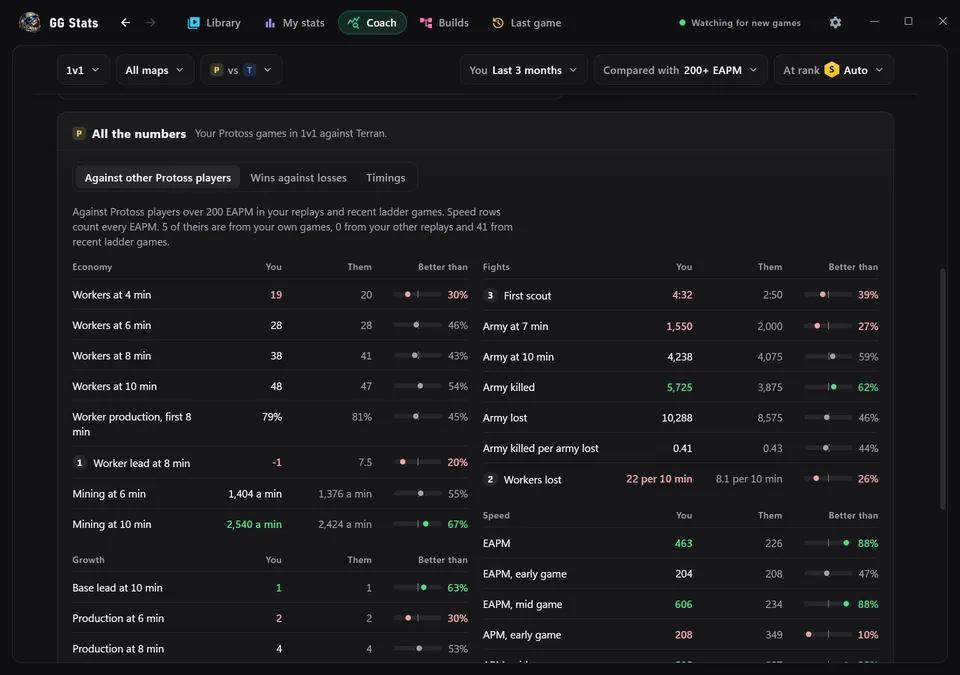
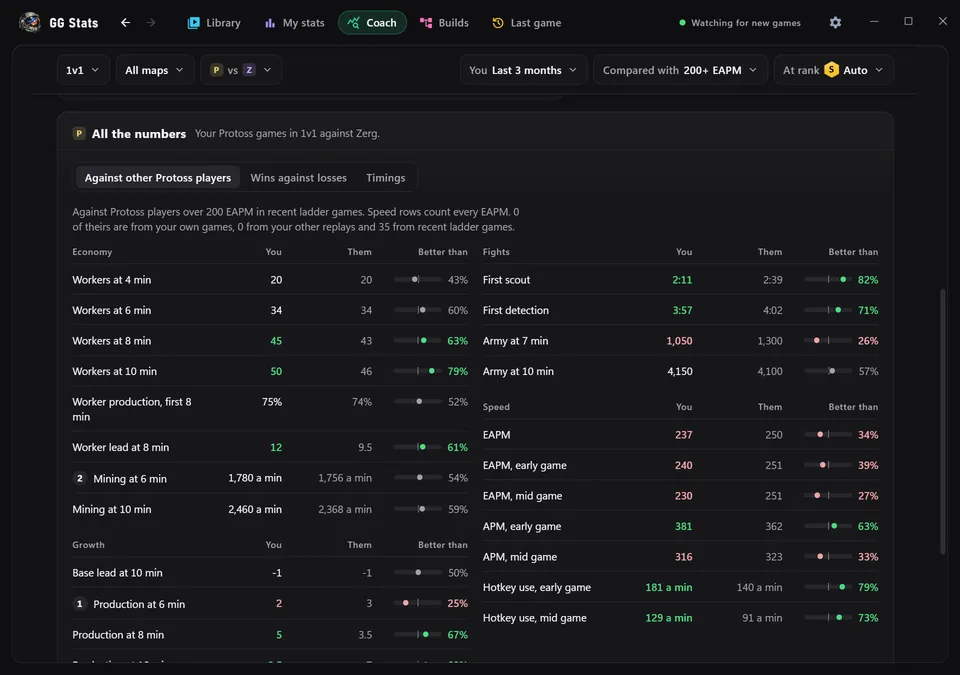
Show a different S rank player in the site's coach shots.

diff --git a/site/index.html b/site/index.html
@@ -460,7 +460,7 @@
           fetchpriority="low"
           decoding="async"
           aria-hidden="true"
-          alt="Coach for an S rank Protoss player in PvT: goals for the next game, how their latest games are going and what to keep doing." />
+          alt="Coach for an S rank Protoss player in PvZ: goals for the next game, how their latest games are going and what to keep doing." />
         <img
           src="shots/numbers.webp"
           srcset="shots/numbers-960.webp 960w, shots/numbers.webp 1920w"
@@ -470,7 +470,7 @@
           fetchpriority="low"
           decoding="async"
           aria-hidden="true"
-          alt="All the numbers: economy, growth, fights and speed from their PvT games, next to other S rank Protoss players." />
+          alt="All the numbers: economy, growth, fights and speed from their PvZ games, next to other S rank Protoss players." />
         <img
           src="shots/builds.webp"
           srcset="shots/builds-960.webp 960w, shots/builds.webp 1920w"
